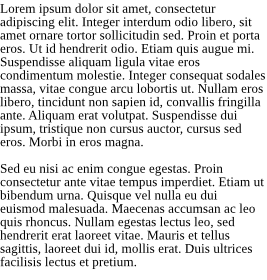
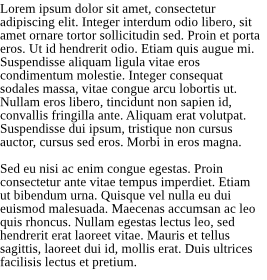
Change from markdown to HTML

Changed region(s): [[0.0, 0.2571, 1.0, 0.5429], [0.0, 0.6571, 0.8689, 0.7429], [0.9288, 0.6286, 0.9888, 0.6857]]

diff --git a/renderer.go b/renderer.go
@@ -1,4 +1,4 @@
-package mdvg
+package htmlvg
 
 import (
 	"bytes"
@@ -7,20 +7,19 @@ import (
 	"strings"
 	"sync"
 
-	"github.com/miekg/mmark"
+	"golang.org/x/net/html"
 	"gonum.org/v1/plot/vg"
 	"gonum.org/v1/plot/vg/draw"
 )
 
-// Renderer implements github.com/miekg/mmark.Renderer to render markdown
-// to a gonum.org/v1/plot/vg.Canvas.
+// Renderer to renders HTML to a gonum.org/v1/plot/vg.Canvas.
 type Renderer struct {
-	mmark.Renderer // We need this because some interface methods have unexported arguments.
-
 	dc draw.Canvas
 	mx sync.Mutex
 	at vg.Point
 
+	// TextStyle specifies the text style. The default is black, left-aligned
+	// text. Left-alignment is currently the only supported alignment.
 	draw.TextStyle
 
 	// PMarginTop and PMarginBottom are the margins before and
@@ -29,7 +28,7 @@ type Renderer struct {
 
 	// SuperscriptPosition, SubscriptPosition, and SuperSubSize
 	// are the relative positions and sizes of superscripts and subscripts.
-	// Defaults are +0.333, -0.333, and 0.583, respectively.
+	// Defaults are +0.25, -1.25, and 0.583, respectively.
 	SuperscriptPosition, SubscriptPosition, SuperSubSize float64
 }
 
@@ -42,160 +41,117 @@ func NewRenderer(font vg.Font) *Renderer {
 			YAlign: draw.YTop,
 		},
 		PMarginBottom:       vg.Points(10),
-		SuperscriptPosition: 0.333,
-		SubscriptPosition:   -0.333,
+		SuperscriptPosition: 0.25,
+		SubscriptPosition:   -1.25,
 		SuperSubSize:        0.583,
 	}
 }
 
-// Draw renders the markdown input md to canvas dc.
-func (r *Renderer) Draw(dc draw.Canvas, md []byte) {
+// Draw renders the HTML input to canvas dc.
+func (r *Renderer) Draw(dc draw.Canvas, HTML []byte) error {
 	r.mx.Lock()
 	defer r.mx.Unlock()
 	r.dc = dc
 	r.at = vg.Point{X: dc.Min.X, Y: dc.Max.Y}
-	mmark.Parse(md, r, 0)
+	doc, err := html.Parse(bytes.NewBuffer(HTML))
+	if err != nil {
+		return fmt.Errorf("htmlvg: %v", err)
+	}
+	return r.draw(doc)
 }
 
-// block-level callbacks
-func (r *Renderer) BlockCode(out *bytes.Buffer, text []byte, lang string, caption []byte, subfigure bool, callouts bool) {
-	panic("BlockCode is not implemented")
-}
-func (r *Renderer) BlockQuote(out *bytes.Buffer, text []byte, attribution []byte) {
-	panic("BlockQuote is not implemented")
-}
-func (r *Renderer) BlockHtml(out *bytes.Buffer, text []byte) { panic("BlockHtml is not implemented") }
-func (r *Renderer) CommentHtml(out *bytes.Buffer, text []byte) {
-	panic("CommentHtml is not implemented")
+func (r *Renderer) draw(n *html.Node) error {
+	switch n.Type {
+	case html.ErrorNode:
+		return fmt.Errorf("htmlvg: node error: %+v", n)
+	case html.TextNode:
+		return r.text(n)
+	case html.DocumentNode, html.DoctypeNode, html.CommentNode:
+		for c := n.FirstChild; c != nil; c = c.NextSibling {
+			if err := r.draw(c); err != nil {
+				return err
+			}
+		}
+	case html.ElementNode:
+		if err := r.element(n); err != nil {
+			return err
+		}
+	default:
+		panic(fmt.Errorf("invalid node type %v", n.Type))
+	}
+	return nil
 }
 
-// SpecialHeader is used for Abstract and Preface. The what string contains abstract or preface.
-func (r *Renderer) SpecialHeader(out *bytes.Buffer, what []byte, text func() bool, id string) {
-	panic("SpecialHeader is not implemented")
+// element renders an HTML element.
+func (r *Renderer) element(e *html.Node) error {
+	switch e.Data {
+	case "p":
+		return r.paragraph(e)
+	case "sup":
+		return r.subsuperscript(e, vg.Length(r.SuperscriptPosition))
+	case "sub":
+		return r.subsuperscript(e, vg.Length(r.SubscriptPosition))
+	case "html", "head", "body":
+		for c := e.FirstChild; c != nil; c = c.NextSibling {
+			if err := r.draw(c); err != nil {
+				return err
+			}
+		}
+		return nil
+	default:
+		return fmt.Errorf("htmlvg: '%s' not implemented", e.Data)
+	}
 }
 
-// Note is use for typesetting notes.
-func (r *Renderer) Note(out *bytes.Buffer, text func() bool, id string) {
-	panic("Note is not implemented")
-}
-func (r *Renderer) Part(out *bytes.Buffer, text func() bool, id string) {
-	panic("Part is not implemented")
-}
-func (r *Renderer) Header(out *bytes.Buffer, text func() bool, level int, id string) {
-	panic("Header is not implemented")
-}
-func (r *Renderer) HRule(out *bytes.Buffer) { panic("HRule is not implemented") }
-func (r *Renderer) List(out *bytes.Buffer, text func() bool, flags, start int, group []byte) {
-	panic("List is not implemented")
-}
-func (r *Renderer) ListItem(out *bytes.Buffer, text []byte, flags int) {
-	panic("ListItem is not implemented")
-}
-func (r *Renderer) Paragraph(out *bytes.Buffer, text func() bool, flags int) {
+// paragraph renders an HTML p element.
+func (r *Renderer) paragraph(p *html.Node) error {
 	r.at = vg.Point{X: 0, Y: r.at.Y - r.PMarginTop}
-	ok := text()
-	if !ok {
-		panic("this is not ok")
+	for c := p.FirstChild; c != nil; c = c.NextSibling {
+		if err := r.draw(c); err != nil {
+			return err
+		}
 	}
 	r.at = vg.Point{X: 0, Y: r.at.Y - r.TextStyle.Font.Size - r.PMarginBottom}
+	return nil
 }
 
-func (r *Renderer) Table(out *bytes.Buffer, header []byte, body []byte, footer []byte, columnData []int, caption []byte) {
-	panic("Table is not implemented")
-}
-func (r *Renderer) TableRow(out *bytes.Buffer, text []byte) { panic("TableRow is not implemented") }
-func (r *Renderer) TableHeaderCell(out *bytes.Buffer, text []byte, flags, colspan int) {
-	panic("TableHeaderCell is not implemented")
-}
-func (r *Renderer) TableCell(out *bytes.Buffer, text []byte, flags, colspan int) {
-	panic("TableCell is not implemented")
+// text renders HTML normal text.
+func (r *Renderer) text(t *html.Node) error {
+	r.writeLines(t.Data, r.TextStyle)
+	return nil
 }
 
-func (r *Renderer) Footnotes(out *bytes.Buffer, text func() bool) {
-	panic("Footnotes is not implemented")
-}
-func (r *Renderer) FootnoteItem(out *bytes.Buffer, name, text []byte, flags int) {
-	panic("FootnoteItem is not implemented")
-}
-func (r *Renderer) Aside(out *bytes.Buffer, text []byte) { panic("Aside is not implemented") }
-func (r *Renderer) Figure(out *bytes.Buffer, text []byte, caption []byte) {
-	panic("Figure is not implemented")
-}
-
-// Span-level callbacks
-func (r *Renderer) AutoLink(out *bytes.Buffer, link []byte, kind int) {
-	panic("AutoLink is not implemented")
-}
-func (r *Renderer) CodeSpan(out *bytes.Buffer, text []byte) { panic("CodeSpan is not implemented") }
-
-// CalloutText is called when a callout is seen in the text. Id is the text
-// seen between < and > and ids references the callout counter(s) in the code.
-func (r *Renderer) CalloutText(out *bytes.Buffer, id string, ids []string) {
-	panic("CalloutText is not implemented")
+// subscript renders subscript text.
+func (r *Renderer) subscript(s *html.Node) error {
+	r.TextStyle.Font.Size *= vg.Length(r.SuperSubSize)
+	r.at.Y += r.TextStyle.Font.Size * vg.Length(r.SubscriptPosition)
+	for c := s.FirstChild; c != nil; c = c.NextSibling {
+		if err := r.draw(c); err != nil {
+			return err
+		}
+	}
+	r.at.Y = r.TextStyle.Font.Size * vg.Length(r.SubscriptPosition)
+	r.TextStyle.Font.Size /= vg.Length(r.SuperSubSize)
+	return nil
 }
 
-// Called when a callout is seen in a code block. Index is the callout counter, id
-// is the number seen between < and >.
-func (r *Renderer) CalloutCode(out *bytes.Buffer, index, id string) {
-	panic("CalloutCode is not implemented")
-}
-func (r *Renderer) DoubleEmphasis(out *bytes.Buffer, text []byte) {
-	panic("DoubleEmphasis is not implemented")
-}
-func (r *Renderer) Emphasis(out *bytes.Buffer, text []byte) { panic("Emphasis is not implemented") }
-func (r *Renderer) Subscript(out *bytes.Buffer, text []byte) {
-	r.at.Y -= r.TextStyle.Font.Size * vg.Length(r.SubscriptPosition)
-	ts := r.TextStyle
-	ts.Font.Size *= vg.Length(r.SuperSubSize)
-	r.writeLines(string(text), ts)
-}
-func (r *Renderer) Superscript(out *bytes.Buffer, text []byte) {
-	r.at.Y += r.TextStyle.Font.Size * vg.Length(r.SuperscriptPosition)
-	ts := r.TextStyle
-	ts.Font.Size *= vg.Length(r.SuperSubSize)
-	//r.at.Y -= r.TextStyle.Font.Size * vg.Length(r.SuperscriptPosition)
-}
-func (r *Renderer) Image(out *bytes.Buffer, link []byte, title []byte, alt []byte, subfigure bool) {
-	panic("Image is not implemented")
-}
-func (r *Renderer) LineBreak(out *bytes.Buffer) { panic("LineBreak is not implemented") }
-func (r *Renderer) Link(out *bytes.Buffer, link []byte, title []byte, content []byte) {
-	panic("Link is not implemented")
-}
-func (r *Renderer) RawHtmlTag(out *bytes.Buffer, tag []byte) { panic("RawHtmlTag is not implemented") }
-func (r *Renderer) TripleEmphasis(out *bytes.Buffer, text []byte) {
-	panic("TripleEmphasis is not implemented")
-}
-func (r *Renderer) StrikeThrough(out *bytes.Buffer, text []byte) {
-	panic("StrikeThrough is not implemented")
-}
-func (r *Renderer) FootnoteRef(out *bytes.Buffer, ref []byte, id int) {
-	panic("FootnoteRef is not implemented")
-}
-func (r *Renderer) Index(out *bytes.Buffer, primary, secondary []byte, prim bool) {
-	panic("Index is not implemented")
-}
-func (r *Renderer) Citation(out *bytes.Buffer, link, title []byte) {
-	panic("Citation is not implemented")
-}
-func (r *Renderer) Abbreviation(out *bytes.Buffer, abbr, title []byte) {
-	panic("Abbreviation is not implemented")
-}
-func (r *Renderer) Example(out *bytes.Buffer, index int) { panic("Example is not implemented") }
-func (r *Renderer) Math(out *bytes.Buffer, text []byte, display bool) {
-	panic("Math is not implemented")
-}
-
-// Low-level callbacks
-func (r *Renderer) Entity(out *bytes.Buffer, entity []byte) { panic("Entity is not implemented") }
-func (r *Renderer) NormalText(out *bytes.Buffer, text []byte) {
-	r.writeLines(string(text), r.TextStyle)
+// subsuperscript renders superscript or subscript text.
+func (r *Renderer) subsuperscript(s *html.Node, position vg.Length) error {
+	r.TextStyle.Font.Size *= vg.Length(r.SuperSubSize)
+	r.at.Y += r.TextStyle.Font.Size * position
+	for c := s.FirstChild; c != nil; c = c.NextSibling {
+		if err := r.draw(c); err != nil {
+			return err
+		}
+	}
+	r.at.Y -= r.TextStyle.Font.Size * position
+	r.TextStyle.Font.Size /= vg.Length(r.SuperSubSize)
+	return nil
 }
 
 // writeLines writes the given text to the canvas, inserting line breaks
 // as necessary.
 func (r *Renderer) writeLines(text string, sty draw.TextStyle) {
-	fmt.Println("bbb", text)
 	splitFunc := func(r rune) bool {
 		return r == ' ' || r == '-' // Function for choosing possible line breaks.
 	}
@@ -233,17 +189,4 @@ func (r *Renderer) writeLines(text string, sty draw.TextStyle) {
 			line = str[lineStart:lineEnd]
 		}
 	}
-}
-
-// Header and footer
-func (r *Renderer) DocumentHeader(out *bytes.Buffer, start bool) {
-	// Don't currently do anything for the header.
-}
-func (r *Renderer) DocumentFooter(out *bytes.Buffer, start bool) {
-	// Don't currently do anything for the footer.
-}
-
-// Frontmatter, mainmatter or backmatter
-func (r *Renderer) DocumentMatter(out *bytes.Buffer, matter int) {
-	panic("DocumentMatter is not implemented")
 }

diff --git a/renderer_test.go b/renderer_test.go
@@ -1,4 +1,4 @@
-package mdvg
+package htmlvg
 
 import (
 	"os"
@@ -11,37 +11,38 @@ import (
 
 func TestRenderer_Draw(t *testing.T) {
 	tests := []struct {
-		md            string
+		html          string
 		filename      string
 		width, height vg.Length
 	}{
 		{
-			md:       "Hello world!",
+			html:     "Hello world!",
 			filename: "testdata/hello.png",
 			width:    vg.Points(60),
 			height:   vg.Points(20),
 		},
 		{
-			md: `Lorem ipsum dolor sit amet, consectetur adipiscing elit. Integer interdum
+			html: `<p>Lorem ipsum dolor sit amet, consectetur adipiscing elit. Integer interdum
 odio libero, sit amet ornare tortor sollicitudin sed. Proin et porta eros. Ut id hendrerit odio.
 Etiam quis augue mi. Suspendisse aliquam ligula vitae eros condimentum molestie. Integer consequat
 sodales massa, vitae congue arcu lobortis ut. Nullam eros libero, tincidunt non sapien id, convallis
 fringilla ante. Aliquam erat volutpat. Suspendisse dui ipsum, tristique non cursus auctor, cursus sed
-eros. Morbi in eros magna.
+eros. Morbi in eros magna.</p>
 
-Sed eu nisi ac enim congue egestas. Proin consectetur ante vitae tempus imperdiet.
+<p>Sed eu nisi ac enim congue egestas. Proin consectetur ante vitae tempus imperdiet.
 Etiam ut bibendum urna. Quisque vel nulla eu dui euismod malesuada. Maecenas accumsan
 ac leo quis rhoncus. Nullam egestas lectus leo, sed hendrerit erat laoreet vitae.
-Mauris et tellus sagittis, laoreet dui id, mollis erat. Duis ultrices facilisis lectus et pretium.`,
+Mauris et tellus sagittis, laoreet dui id, mollis erat. Duis ultrices facilisis lectus et pretium.</p>`,
 			filename: "testdata/lorem.png",
 			width:    vg.Points(200),
 			height:   vg.Points(210),
 		},
 		{
-			md:       "Here we try s^u^per", //~s~cript and s~ubsc~ript. H~2~O^(2)^ PM~2.5~",
+			html: `<p>Superscript and subscript don't currently work will with line breaks.</p>
+<p>Here we try s<sup>u</sup>per<sub>s</sub>cript and s<sub>ubsc</sub>ript. H<sub>2</sub>O<sup>(2)</sub> PM<sub>2.5</sub>`,
 			filename: "testdata/supersub.png",
 			width:    vg.Points(150),
-			height:   vg.Points(100),
+			height:   vg.Points(60),
 		},
 	}
 
@@ -57,7 +58,9 @@ Mauris et tellus sagittis, laoreet dui id, mollis erat. Duis ultrices facilisis 
 
 			r := NewRenderer(font)
 
-			r.Draw(dc, []byte(test.md))
+			if err := r.Draw(dc, []byte(test.html)); err != nil {
+				t.Fatal(err)
+			}
 
 			w, err := os.Create(test.filename)
 			if err != nil {

diff --git a/README.md b/README.md
@@ -1,2 +1,2 @@
-# mdvg
-Package mdvg provides a gonum.org/v1/plot/vg markdown renderer based on github.com/miekg/mmark
+# htmlvg
+Package htmlvg provides a gonum.org/v1/plot/vg HTML renderer.
